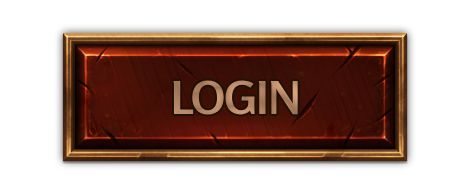
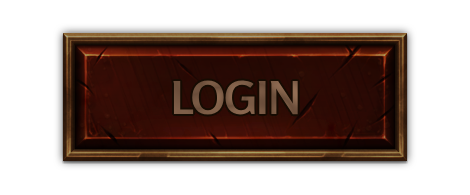
login button works
Animation is fully functional and has a spot for futher functionality

Changed region(s): [[0.1191, 0.1538, 0.8638, 0.8308]]

diff --git a/src/client/C_WindowMenu.java b/src/client/C_WindowMenu.java
@@ -8,6 +8,7 @@ import org.newdawn.slick.GameContainer;
 import org.newdawn.slick.Graphics;
 import org.newdawn.slick.Image;
 import org.newdawn.slick.Input;
+import org.newdawn.slick.MouseListener;
 import org.newdawn.slick.SlickException;
 import org.newdawn.slick.TrueTypeFont;
 import org.newdawn.slick.gui.AbstractComponent;
@@ -27,6 +28,8 @@ public class C_WindowMenu extends BasicGameState implements ActionListener {
 	private String password = new String();
 	private String temp = new String();
 	private StringBuffer buf2 = new StringBuffer();
+	private boolean loginPressed = false;
+	private double LastMoveTime;
 
 	// Resources
 	private TrueTypeFont roboto14, roboto18;
@@ -80,6 +83,7 @@ public class C_WindowMenu extends BasicGameState implements ActionListener {
 		Input input = gmc.getInput();
 		int xpos = input.getMouseX();
 		int ypos = input.getMouseY();
+		//MouseListener click = new MouseListener();
 		// Render menu
 		menuBack.draw(0, 0);
 		menuLogo.draw((vars.screenX / 2) - 330, 10);
@@ -91,9 +95,13 @@ public class C_WindowMenu extends BasicGameState implements ActionListener {
 
 		//login button
 		menuButtonUp.draw((vars.screenX / 2) - (120 / 2), (vars.screenY / 2) + 45, 120, 49);
-		if(xpos > (vars.screenX / 2) - (120 / 2) && xpos < (vars.screenX / 2) + (120 / 2) &&
-				ypos > (vars.screenY / 2) + 45 && ypos < (vars.screenY / 2) + 94) {
-			menuButtonHover.draw((vars.screenX / 2) - (120 / 2), (vars.screenY / 2) + 45, 120, 49);
+		if(!loginPressed) {
+			if(xpos > (vars.screenX / 2) - (120 / 2) && xpos < (vars.screenX / 2) + (120 / 2) &&
+					ypos > (vars.screenY / 2) + 45 && ypos < (vars.screenY / 2) + 94) {
+				menuButtonHover.draw((vars.screenX / 2) - (120 / 2), (vars.screenY / 2) + 45, 120, 49);
+			}
+		}else if(loginPressed) {
+			menuButtonDown.draw((vars.screenX / 2) - (120 / 2), (vars.screenY / 2) + 45, 120, 49);
 		}
 		
 		// Connection label
@@ -104,10 +112,30 @@ public class C_WindowMenu extends BasicGameState implements ActionListener {
 		}
 	}
 
+	@Override
+	public void mousePressed(int button, int x, int y)
+	{
+	    if( button == 0 )
+	    {
+	    	if(x > (vars.screenX / 2) - (120 / 2) && x < (vars.screenX / 2) + (120 / 2) &&
+					y > (vars.screenY / 2) + 45 && y < (vars.screenY / 2) + 94) {
+	    		loginPressed = true;
+    			menuButtonDown.draw((vars.screenX / 2) - (120 / 2), (vars.screenY / 2) + 45, 120, 49);
+    			System.out.println("CLONK");
+    			LastMoveTime = System.currentTimeMillis();
+	    	}
+	    }else {
+	    	loginPressed = false;
+	    }
+	}
+	
 	// update-method with all the magic happening in it
 	@Override
 	public void update(GameContainer gc, StateBasedGame sbg, int arg2) throws SlickException {
-
+		//mouse
+		Input input = gc.getInput();
+		int xpos = input.getMouseX();
+		int ypos = input.getMouseY();
 		/*
 		 * This stars out the password in the textfield
 		 */
@@ -149,6 +177,12 @@ public class C_WindowMenu extends BasicGameState implements ActionListener {
 		passwordBox.setText(maskValue.toString());
 		
 		// DEBUG System.out.println(temp);
+		if(loginPressed) {
+			if(System.currentTimeMillis() - LastMoveTime >= 150){ 
+				loginPressed = false;
+			}
+			
+		}
 	}
 
 	// Returning 'ID' from class 'MainMenu'
